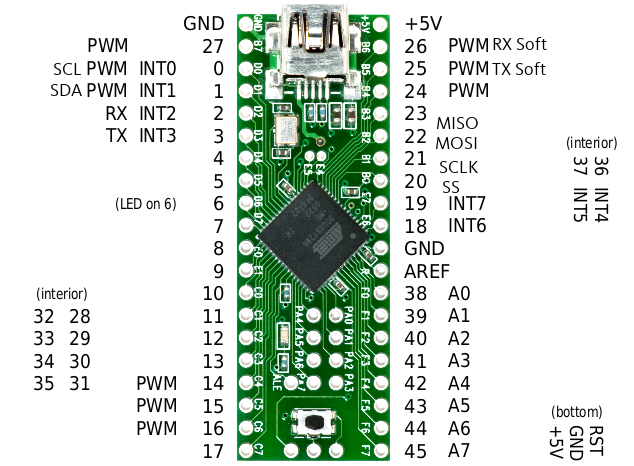
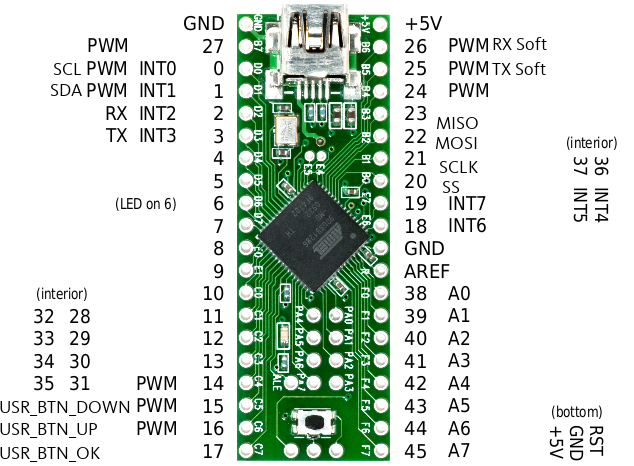
ADDED User Interface (btns + LCD control in BASIC)

Changed region(s): [[0.0, 0.8412, 0.2098, 0.9313], [0.0, 0.9614, 0.1498, 0.9914]]

diff --git a/README.md b/README.md
@@ -8,13 +8,16 @@ so It **WILL NOT run on Arduino INO boards** ...
 (It's an early stage work, so it's dirty & not well documented)
 
 * added support for :
-   - ssd1306 LCD I2C Screen
+   - ssd1306 LCD I2C Screen + 3 user btns (up/down/ok) **[new]**
    - SPI uSD Card reader
    - ESP8266 Wifi module
    - 2nd UART (two serial ports control)
    - Teensy ++2 module
 
 ![Dev Board](/images/devBoard.jpg)
+
+* With it's 3 new user buttons & LCD control routines ( BTN() + LCCLS, LCPRINT <line>,<expr> ),<br/>
+  You are now able to create simple menus !!
 
 * It provides a regular BASIC shell, and can act as an HTTP Server to launch a 'web.bas' file<br/>
   that outputs directly in the browser.
